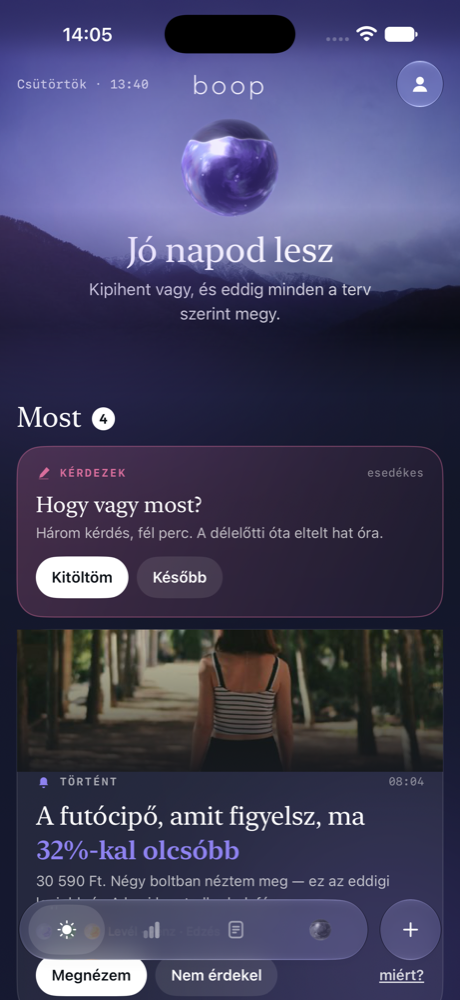
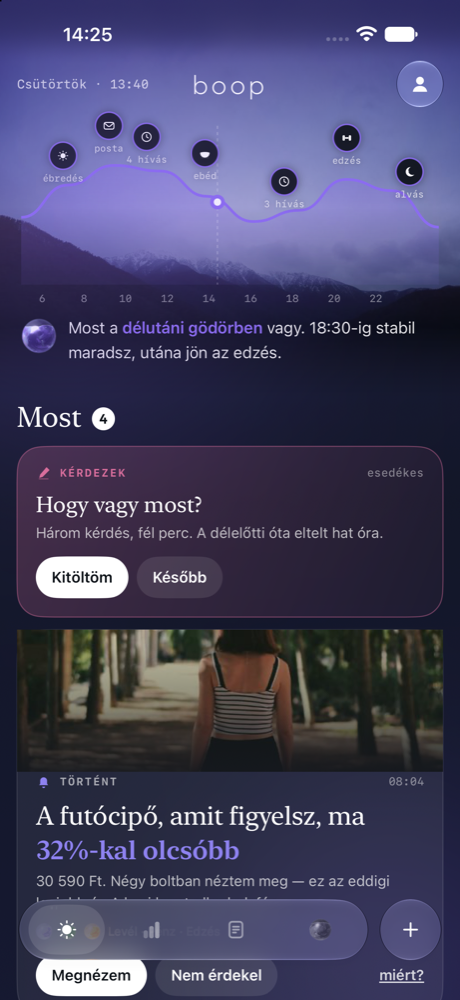
docs(boop-life): the day's curve is the hero; Nap becomes the seventh area (mezo-r36n9.33)
Owner rejected the lone orb + sentence hero as well. Three of his asks resolve into one move:

- The hero of Ma is the SHAPE OF THE DAY — EDayCurve: the energy curve with the big moments
  pinned on it and the now marker, one sentence under it, the orb shrunk to a 34 pt speaker mark.
  Labels stagger and drop where pins crowd.
- 'A napod' stops being a folded row and becomes the SEVENTH AREA with its own page — the same
  thing as the day-capacity idea, so one page not two: how full the day is from the calendar,
  each event with its AI-scored load and how prepared he is, the energy curve with the
  'below this it is hard to start anything' line, the full agenda, the week's load.
- This is B7 Napi kapacitás given a home and a face; the scoring stays labelled as learning
  until weeks of check-in data calibrate it.

Area index 6 is Nap; Levél moves to 7, every reference reindexed.

Decision #14. The Notion push is still pending from the connector outage (mezo-r36n9.46).

diff --git a/docs/design_2.0/prototypes/boop-ios-spike/BoopSpike/EletMa.swift b/docs/design_2.0/prototypes/boop-ios-spike/BoopSpike/EletMa.swift
@@ -47,7 +47,7 @@ struct EArea: Identifiable {
     var m: EMetric { EMetric.all[id] }
 
     static let all: [EArea] = [
-        EArea(id: 6, verdict: "Két levél megér egy percet", big: "34", unit: "levél", cap: "31-et elintéztem helyetted",
+        EArea(id: 7, verdict: "Két levél megér egy percet", big: "34", unit: "levél", cap: "31-et elintéztem helyetted",
               bars: [0.4, 0.7, 0.5, 0.9, 0.6, 0.3, 0.8], loud: true),
         EArea(id: 5, verdict: "A kereten belül vagy, de az éttermek elfogytak", big: "281 600", unit: "Ft", cap: "a havi 610 000-ből, a 13. napon",
               bars: [0.32, 0.58, 0.21, 0.9, 0.44, 0.76, 0.18], loud: true),
@@ -75,7 +75,7 @@ struct EProposal {
         accepted: "Felvettem a tervezett kiadások közé",
         facts: [("30 590", "Ft", "a mai ár a reggeli levélben"), ("38 400", "Ft", "a szokásos ára, 4 bolt alapján"), ("54 000", "Ft", "ami a hónapból még szabadon van")],
         areas: [(5, "A havi keretedbe belefér, és nincs mellette másik nagy tétel a héten."),
-                (6, "A márka leveleit eddig 11-szer dobtam ki — ez az első, amelyik tényleg olcsóbb."),
+                (7, "A márka leveleit eddig 11-szer dobtam ki — ez az első, amelyik tényleg olcsóbb."),
                 (2, "A mostani cipőd 780 kilométernél jár, a futóidőid három hete lassulnak."),
                 (0, "A nyári célodhoz heti három futás kell. Ehhez a cipő nem luxus, hanem feltétel.")])
 
@@ -187,14 +187,20 @@ struct EletMa: View {
                 }
                 .padding(.horizontal, 16).padding(.top, 58)
 
-                LivingOrb(mood: .good, size: 96, motion: motion, palette: day.orb, glow: true, level: 0.78)
-                    .padding(.top, 10)
-                    .onTapGesture { path.append("m0") }
+                EDayCurve(values: EDay.curve, labels: EDay.hours, events: EDay.events,
+                          hue: day.glow, now: 0.47, height: 182)
+                    .padding(.horizontal, 20).padding(.top, 10)
+                    .onTapGesture { path.append("m6") }
 
-                Text("Jó napod lesz").font(AuraFont.serif(34)).foregroundStyle(.white).padding(.top, 10)
-                Text("Kipihent vagy, és eddig minden a terv szerint megy.")
-                    .font(.system(size: 16)).lineSpacing(4).multilineTextAlignment(.center)
-                    .foregroundStyle(.white.opacity(0.82)).padding(.horizontal, 36).padding(.top, 8)
+                HStack(alignment: .top, spacing: 11) {
+                    LivingOrb(mood: .good, size: 34, motion: motion, palette: day.orb, glow: false, level: 0.78)
+                        .allowsHitTesting(false)
+                    EHueText(text: "Most a *délutáni gödörben* vagy. 18:30-ig stabil maradsz, utána jön az edzés.",
+                             hue: day.glow, size: 15.5, opacity: 0.9)
+                    Spacer(minLength: 0)
+                }
+                .padding(.horizontal, 20).padding(.top, 10)
+
                 Spacer(minLength: 0)
             }
             .frame(height: height)
@@ -296,8 +302,24 @@ struct EletMa: View {
             }
             EFoldRow(title: "A reggeli összefoglaló", sub: "08:10 · Boop mondta", glyph: "sun-ink",
                      hue: day.glow, open: $briefOpen) { briefing }
-            EFoldRow(title: "A napod", sub: "4 megvolt · 3 hátra · edzés 18:30", glyph: "clock-ink",
-                     hue: day.glow, open: $dayOpen) { dayScroll.padding(.top, 4) }
+            Button { path.append("m6") } label: {
+                HStack(spacing: 13) {
+                    EGlyph("clock-ink", .white.opacity(0.9), size: 17).frame(width: 36, height: 36)
+                        .background(Circle().fill(.white.opacity(0.08)))
+                    VStack(alignment: .leading, spacing: 2) {
+                        Text("A napod").font(.system(size: 15.5, weight: .medium)).foregroundStyle(.white)
+                        Text("6 esemény · 72%-ban tele · edzés 18:30").font(.system(size: 12.5))
+                            .foregroundStyle(.white.opacity(0.55))
+                    }
+                    Spacer()
+                    Image(systemName: "chevron.right").font(.system(size: 12, weight: .semibold))
+                        .foregroundStyle(.white.opacity(0.45))
+                }
+                .padding(.horizontal, 16).padding(.vertical, 13)
+                .contentShape(Rectangle())
+            }
+            .buttonStyle(.plain)
+            .gCard(22)
         }
     }
 
@@ -381,7 +403,7 @@ struct EletMa: View {
             FlowRow(spacing: 8, rowSpacing: 8) {
                 EChip(glyph: "moon-cream", text: "Alvás 7ó 12p", orb: EMetric.all[1].orb)
                 EChip(glyph: "e-penz", text: "281 600 Ft", orb: EMetric.all[5].orb)
-                EChip(glyph: "e-level", text: "2 érdekes levél", orb: EMetric.all[6].orb)
+                EChip(glyph: "e-level", text: "2 érdekes levél", orb: EMetric.all[7].orb)
                 EChip(glyph: "clock-ink", text: "6 esemény")
                 EChip(glyph: "dumbbell-ink", text: "Edzés 18:30", orb: EMetric.all[2].orb)
                 EChip(glyph: "bowl-cream", text: "165 g fehérje", orb: EMetric.all[3].orb)
@@ -519,7 +541,7 @@ struct EletMa: View {
     private func tap(_ it: EItem) {
         switch it.kind {
         case .money: path.append("m5")
-        case .mail: path.append("m6")
+        case .mail: path.append("m7")
         case .meal: path.append("m3")
         case .train: path.append("m2")
         case .wake, .sleep: path.append("m1")
@@ -538,7 +560,7 @@ struct EMaNotice {
     static let all: [EMaNotice] = [
         EMaNotice(areas: [5, 3], text: "Az étteremre költés a héten *24 000 Ft* — ez a harmadik hét, hogy csütörtökön ugrik meg."),
         EMaNotice(areas: [1, 3], text: "A késői vacsorák után átlagosan *24 perccel* kevesebbet alszol. Ma 19:45-re terveztem."),
-        EMaNotice(areas: [6], text: "Három hét alatt 612 levélből *36-ot* nyitottál meg — a többit ezentúl csendben szűröm."),
+        EMaNotice(areas: [7], text: "Három hét alatt 612 levélből *36-ot* nyitottál meg — a többit ezentúl csendben szűröm."),
     ]
 }
 
@@ -668,4 +690,20 @@ struct EWhySheet: View {
         .background(gPageBackground(EMetric.all[0].top).ignoresSafeArea())
         .ignoresSafeArea(edges: .top)
     }
+}
+
+
+/// The shape of today and its big moments — the hero of Ma and the head of the Nap area.
+enum EDay {
+    static let curve: [Double] = [0.45, 0.68, 0.82, 0.78, 0.6, 0.42, 0.5, 0.72, 0.64, 0.38]
+    static let hours = ["6", "8", "10", "12", "14", "16", "18", "20", "22", ""]
+    static let events: [EDayEvent] = [
+        EDayEvent(at: 0.10, glyph: "sun-ink", label: "ébredés"),
+        EDayEvent(at: 0.21, glyph: "e-level", label: "posta"),
+        EDayEvent(at: 0.30, glyph: "clock-ink", label: "4 hívás"),
+        EDayEvent(at: 0.44, glyph: "bowl-cream", label: "ebéd"),
+        EDayEvent(at: 0.63, glyph: "clock-ink", label: "3 hívás"),
+        EDayEvent(at: 0.78, glyph: "dumbbell-ink", label: "edzés"),
+        EDayEvent(at: 0.93, glyph: "moon-cream", label: "alvás"),
+    ]
 }

diff --git a/docs/design_2.0/prototypes/boop-ios-spike/BoopSpike/EletContent.swift b/docs/design_2.0/prototypes/boop-ios-spike/BoopSpike/EletContent.swift
@@ -8,7 +8,8 @@ enum EAreaContent {
     static func tabs(_ metric: Int) -> [ETab] {
         switch metric {
         case 5: return penz
-        case 6: return level
+        case 6: return nap
+        case 7: return level
         case 1: return alvas
         case 2: return edzes
         case 3: return etel
@@ -93,6 +94,63 @@ enum EAreaContent {
                 more: "Tétel hozzáadása"),
             .note(label: "HA MEGVESZED A CIPŐT", body: "5 400 Ft marad a hónapból. Ha a hétvégi éttermet kihagyod, az 12 000 Ft, és akkor kényelmes."),
             .ask("Kérdezd meg Boopot, belefér-e"),
+        ]),
+    ]
+
+
+    // ───────────────────────────────────────────── Nap · a nap telítettsége (B7 given a home)
+    static let nap: [ETab] = [
+        ETab(name: "Ma", badge: 1, blocks: [
+            .highlight(label: "AMI MA SZÁMÍT", text: "14 és 17:30 között nincs levegő",
+                       sub: "Három hívás egymás után, köztük tíz perc. Utána viszont tiéd a nap — ezért tettem az edzést 18:30-ra."),
+            .stats([EStat(value: "6", unit: "esemény", label: "ma a naptáradban"),
+                    EStat(value: "72", unit: "%", label: "ennyire van tele a napod", trend: 1, hot: true),
+                    EStat(value: "2ó 10p", unit: "", label: "összefüggő szabad idő")]),
+            .curve(label: "MENNYI ENERGIÁD MARAD", values: [0.45, 0.68, 0.82, 0.78, 0.6, 0.42, 0.5, 0.72, 0.64, 0.38],
+                   labels: ["6", "8", "10", "12", "14", "16", "18", "20", "22", ""], target: 0.5, now: 4,
+                   note: "A szaggatott vonal az, ami alatt már nehéz bármit elkezdeni. Ma kétszer mész alá: 15 körül és este tíz után."),
+            .rowlist(label: "A MAI ESEMÉNYEK", rows: [
+                ERow(glyph: "clock-ink", title: "Heti tervezés", sub: "09:00 · 60 perc · felkészülve", right: "köze pes", rightSub: "terhelés", level: 0.5),
+                ERow(glyph: "person-sage", title: "Ügyfélhívás · Nagy Péter", sub: "10:30 · 90 perc · nincs jegyzeted hozzá", right: "nehéz", rightSub: "terhelés", level: 0.88, badge: 1, hot: true),
+                ERow(glyph: "clock-ink", title: "Csapatmegbeszélés", sub: "14:00 · 45 perc · felkészülve", right: "könnyű", rightSub: "terhelés", level: 0.3),
+                ERow(glyph: "person-sage", title: "Ügyfélhívás · csúszhat", sub: "16:00 · 90 perc · ez szokott elhúzódni", right: "nehéz", rightSub: "terhelés", level: 0.82),
+                ERow(glyph: "dumbbell-ink", title: "Felsőtest edzés", sub: "18:30 · 75 perc · te tetted ide", right: "közepes", rightSub: "terhelés", level: 0.55)],
+                more: "A hét naptára"),
+            .note(label: "HOGYAN PONTOZOM", body: "Minden eseményre megbecsülöm, mennyi fejmunkát, mennyi társas energiát és mennyi fizikai terhelést visz, és hogy mennyire vagy rá felkészülve. Ezt összevetem azzal, mennyi energiád van ma — az alvásodból, a pulzusváltozékonyságodból és az elmúlt napok terheléséből. A becslés az első hetekben tanul: amíg nincs elég check-ined, a számok tájékoztató jellegűek, és ezt ki is írom."),
+            .menu(label: "A NAP TERÜLET", items: [
+                EMenuItem(glyph: "clock-ink", name: "Napirend", sub: "A mai nap percről percre"),
+                EMenuItem(glyph: "repeat-deep", name: "Naptárak", sub: "Melyik naptárt olvassa"),
+                EMenuItem(glyph: "chart-deep", name: "Pontozás", sub: "Mi számít nehéz napnak", badge: 1),
+                EMenuItem(glyph: "pen-sun", name: "Felkészülés", sub: "Amihez jegyzet vagy idő kell"),
+                EMenuItem(glyph: "spark-cream", name: "Mire marad erőd", sub: "Mit bír még el a mai napod"),
+                EMenuItem(glyph: "book-sage", name: "Előzmények", sub: "Hetek, zsúfoltság, kimerülés")]),
+            .ask("Kérdezd meg Boopot a mai napodról"),
+        ]),
+        ETab(name: "Napirend", blocks: [
+            .list(label: "A NAPOD, SORBAN", items: [
+                ("06:53 · Ébredés", "7ó 12p alvás, ebből 1ó 36p mély"),
+                ("07:20 · Reggeli check-in", "Energia 7 · hangulat 8 · feszültség 4"),
+                ("08:00 · A reggeli posta", "34 levél · 31 elintézve · 2 megér egy percet"),
+                ("08:20 · Reggeli", "Zabkása áfonyával · 32 g fehérje"),
+                ("09:00 · Megbeszélések · 4 esemény", "9:00–12:00 · legsűrűbb 10:30-kor"),
+                ("12:06 · Spar · 8 240 Ft", "A banki üzenetből, magától"),
+                ("12:40 · Ebéd", "Csirke rizzsel, salátával · 46 g fehérje"),
+                ("14:00 · Megbeszélések · 3 esemény", "14:00–17:30 · az ügyfélhívás csúszhat"),
+                ("16:00 · Délutáni check-in", "3 kérdés · fél perc"),
+                ("18:30 · Felsőtest edzés", "75 perc · 5 gyakorlat"),
+                ("19:45 · Vacsora", "Boop: legalább 50 g fehérje"),
+                ("21:30 · Esti zárás", "Kevesebb mint egy perc"),
+                ("22:45 · Lefekvés", "Emlékeztetlek 22:15-kor")]),
+            .ask("Kérdezd meg Boopot, hogy fér-e bele még valami"),
+        ]),
+        ETab(name: "Hét", blocks: [
+            .heat(label: "MENNYIRE TELÍTETTEK A NAPJAID", cells: [("H", 0.55), ("K", 0.7), ("Sze", 0.95), ("Cs", 0.72), ("P", 0.6), ("Szo", 0.15), ("V", 0.1)],
+                  note: "Szerda volt a legzsúfoltabb — és aznap aludtál a legkevesebbet. Ez a kettő nálad együtt jár."),
+            .list(label: "AMIT ÉSZREVETTEM", items: [
+                ("A zsúfolt nap másnapja is drága", "A 90% fölötti napok után a Formád átlagosan 9 ponttal alacsonyabb."),
+                ("A hosszú hívások csúsznak", "Az ügyfélhívásaid 60%-a túllép a tervezett időn, átlagosan 18 perccel."),
+                ("A szabad délután ritka", "Két hét alatt egyszer volt két óránál hosszabb összefüggő szabad időd.")]),
+            .ask("Kérdezd meg Boopot a heti terhelésedről"),
         ]),
     ]
 

diff --git a/docs/design_2.0/prototypes/boop-ios-spike/BoopSpike/EletKit.swift b/docs/design_2.0/prototypes/boop-ios-spike/BoopSpike/EletKit.swift
@@ -359,3 +359,103 @@ struct EChip: View {
         .overlay(Capsule().stroke(.white.opacity(0.14)))
     }
 }
+
+
+// MARK: - The day's curve with the major events pinned on it (owner, 2026-11-13)
+
+struct EDayEvent: Identifiable {
+    let id = UUID()
+    let at: Double          // 0…1 across the curve
+    let glyph: String
+    let label: String
+}
+
+/// The hero of Ma: the shape of the day with its big moments on it, and where you are right now.
+struct EDayCurve: View {
+    var values: [Double]
+    var labels: [String]
+    var events: [EDayEvent]
+    var hue: Color
+    var now: Double         // 0…1
+    var height: CGFloat = 170
+
+    var body: some View {
+        GeometryReader { g in
+            let w = g.size.width, h = height
+            ZStack(alignment: .topLeading) {
+                Canvas { ctx, s in
+                    guard values.count > 1 else { return }
+                    let peak = max(0.0001, values.max() ?? 1)
+                    let k = 0.86 / peak
+                    func y(_ v: Double) -> CGFloat { s.height - 26 - (s.height - 54) * CGFloat(min(1, v * k)) }
+                    func pt(_ i: Int) -> CGPoint {
+                        CGPoint(x: s.width * CGFloat(i) / CGFloat(values.count - 1), y: y(values[i]))
+                    }
+                    var line = Path(); line.move(to: pt(0))
+                    for i in 1..<values.count {
+                        let a = pt(i - 1), b = pt(i), mx = (a.x + b.x) / 2
+                        line.addCurve(to: b, control1: CGPoint(x: mx, y: a.y), control2: CGPoint(x: mx, y: b.y))
+                    }
+                    var fill = line
+                    fill.addLine(to: CGPoint(x: s.width, y: s.height - 22))
+                    fill.addLine(to: CGPoint(x: 0, y: s.height - 22)); fill.closeSubpath()
+                    ctx.fill(fill, with: .linearGradient(Gradient(colors: [hue.opacity(0.42), hue.opacity(0.02)]),
+                                                        startPoint: .zero, endPoint: CGPoint(x: 0, y: s.height)))
+                    ctx.stroke(line, with: .color(hue), style: StrokeStyle(lineWidth: 2.6, lineCap: .round, lineJoin: .round))
+
+                    // now
+                    let nx = s.width * CGFloat(now)
+                    var v = Path(); v.move(to: CGPoint(x: nx, y: 8)); v.addLine(to: CGPoint(x: nx, y: s.height - 22))
+                    ctx.stroke(v, with: .color(.white.opacity(0.3)), style: StrokeStyle(lineWidth: 1, dash: [3, 3]))
+                    let ny = y(sample(now))
+                    ctx.fill(Path(ellipseIn: CGRect(x: nx - 7, y: ny - 7, width: 14, height: 14)), with: .color(hue))
+                    ctx.fill(Path(ellipseIn: CGRect(x: nx - 3.5, y: ny - 3.5, width: 7, height: 7)), with: .color(.white))
+                }
+                .frame(height: h)
+
+                // the big moments, as small pins sitting on the curve.
+                // A label only where there is room for it — crowded pins keep the glyph alone.
+                ForEach(Array(events.enumerated()), id: \.element.id) { i, e in
+                    let room = i == 0 || (e.at - events[i - 1].at) > 0.085
+                    let lift: CGFloat = (i % 2 == 0) ? 0 : 9
+                    let peak = max(0.0001, values.max() ?? 1)
+                    let yy = h - 26 - (h - 54) * CGFloat(min(1, sample(e.at) * 0.86 / peak))
+                    VStack(spacing: 3) {
+                        ZStack {
+                            Circle().fill(gBase.opacity(0.92))
+                            Circle().stroke(hue.opacity(0.9), lineWidth: 1.4)
+                            EGlyph(e.glyph, .white, size: 12)
+                        }
+                        .frame(width: 26, height: 26)
+                        .shadow(color: .black.opacity(0.35), radius: 4)
+                        if room {
+                            Text(e.label).font(AuraFont.mono(9)).foregroundStyle(.white.opacity(0.7))
+                                .fixedSize()
+                                .shadow(color: .black.opacity(0.5), radius: 3)
+                        }
+                    }
+                    .position(x: max(22, min(w - 22, w * CGFloat(e.at))), y: yy - 24 - lift)
+                }
+
+                HStack(spacing: 0) {
+                    ForEach(labels.indices, id: \.self) { i in
+                        Text(labels[i]).font(AuraFont.mono(10)).foregroundStyle(.white.opacity(0.45))
+                            .frame(maxWidth: .infinity)
+                    }
+                }
+                .offset(y: h - 16)
+            }
+        }
+        .frame(height: height)
+        .accessibilityHidden(true)
+    }
+
+    /// value at a 0…1 position, linearly between samples
+    private func sample(_ x: Double) -> Double {
+        guard values.count > 1 else { return values.first ?? 0 }
+        let t = x * Double(values.count - 1)
+        let i = min(values.count - 2, max(0, Int(t)))
+        let f = t - Double(i)
+        return values[i] * (1 - f) + values[i + 1] * f
+    }
+}

diff --git a/docs/design_2.0/prototypes/boop-ios-spike/BoopSpike/EletBoop.swift b/docs/design_2.0/prototypes/boop-ios-spike/BoopSpike/EletBoop.swift
@@ -14,7 +14,7 @@ struct EThread: Identifiable {
 
     static let all: [EThread] = [
         EThread(id: "cipo", title: "Megvegyem a futócipőt?", last: "Igen, de a hétvégi étterem helyett.", when: "most",
-                areas: [5, 6, 2, 0], pinned: false,
+                areas: [5, 7, 2, 0], pinned: false,
                 turns: [
                     (false, "Ezt a cipőt érdemes megvenni?"),
                     (true, "Szerintem igen. 30 590 Ft, és négy boltban néztem meg: a szokásos ára 38 400, a legolcsóbb másik 36 900. Ez tényleg a legjobb ár, amit eddig láttam rá."),
@@ -207,7 +207,8 @@ struct EletTerv: View {
         (1, "7,5 óra alvás", "a heti átlagod 7 óra 4 perc", 0.82, "Kipihented magad · 7ó 12p"),
         (5, "Havi 60 000 Ft félretéve", "ebből 38 000 Ft megvan", 0.63, "A kereten belül vagy · 281 600 Ft"),
         (4, "Heti két nyugodt nap", "ezen a héten egy volt", 0.5, "Kicsit feszült vagy · 4/10"),
-        (6, "Csak az számít, ami a célhoz tartozik", "ma 2 levél ilyen volt a 34-ből", 0.9, "Két dolgot nézz meg · 34 levél"),
+        (6, "A naptárad hagyjon helyet", "ma 72%-ban tele", 0.72, "Zsúfolt délután · 6 esemény"),
+        (7, "Csak az számít, ami a célhoz tartozik", "ma 2 levél ilyen volt a 34-ből", 0.9, "Két dolgot nézz meg · 34 levél"),
     ]
 
     var body: some View {
@@ -327,7 +328,7 @@ struct EletNaplo: View {
          [4, 1],
          "A hat eseménynél zsúfoltabb napok után a mély alvásod átlagosan 18 perccel rövidebb. Ezeken a napokon érdemes 22:30 előtt lefeküdni."),
         ("A reklámlevelek 94%-a nem érdekel",
-         [6, 5],
+         [7, 5],
          "Három hét alatt 612 levélből 36-ot nyitottál meg. A megnyitottak háromnegyede két márkától jött — a többit ezentúl csendben szűröm."),
     ]
 

diff --git a/docs/design_2.0/prototypes/boop-ios-spike/BoopSpike/EletRoot.swift b/docs/design_2.0/prototypes/boop-ios-spike/BoopSpike/EletRoot.swift
@@ -70,6 +70,13 @@ struct EMetric {
                 headline: "A kereten belül vagy",
                 sentence: "A hónapból 13 nap telt el, a havi keret 46%-át költötted el. Két nagyobb tétel jön még.",
                 isNew: true),
+        EMetric(name: "Nap", value: 64, glyph: "clock-ink",
+                top: Color(hex: 0x0E3542), glow: Color(hex: 0x4FC3D9),
+                orb: [Color(hex: 0x0A2C38), Color(hex: 0x1F7A8C), Color(hex: 0x8FD9E8), Color(hex: 0xC9F0E2)],
+                sky: [Color(hex: 0x10384A), Color(hex: 0x3C8FA8), Color(hex: 0xCFE8E4)],
+                headline: "Zsúfolt délutánod lesz",
+                sentence: "Hat esemény, a naptárad 72%-ban tele. 14 és 17:30 között nincs levegő — utána viszont tiéd a nap.",
+                isNew: true),
         EMetric(name: "Levél", value: 58, glyph: "e-level",
                 top: Color(hex: 0x241F55), glow: Color(hex: 0x8E82F0),
                 orb: [Color(hex: 0x1E1A4A), Color(hex: 0x5B4BC4), Color(hex: 0xB3A8F5), Color(hex: 0x7FD8E8)],
@@ -131,7 +138,7 @@ struct EletRoot: View {
     @State private var maPath: [String] = {
         switch EArg.str("eletOpen") {
         case "penz": return ["m5"]
-        case "level": return ["m6"]
+        case "level": return ["m7"]
         case let s? where s.hasPrefix("m"): return [s]
         default: return []
         }

diff --git a/docs/design_2.0/prototypes/boop-ios-spike/BoopSpike/EletFeed.swift b/docs/design_2.0/prototypes/boop-ios-spike/BoopSpike/EletFeed.swift
@@ -61,7 +61,7 @@ struct EFeedCard: Identifiable {
         EFeedCard(id: "cipo", kind: .tortent, when: "08:04",
                   text: "A futócipő, amit figyelsz, ma *32%-kal olcsóbb*",
                   sub: "30 590 Ft. Négy boltban néztem meg — ez az eddigi legjobb ár. A havi keretedbe belefér.",
-                  areas: [6, 5, 2], primary: "Megnézem", secondary: "Nem érdekel",
+                  areas: [7, 5, 2], primary: "Megnézem", secondary: "Nem érdekel",
                   settled: "Futócipő · megnézted",
                   photo: "nap-seta-sq.jpg", photoSq: "nap-seta-sq.jpg", big: "30 590", bigUnit: "Ft"),
         EFeedCard(id: "ebed", kind: .reakcio, when: "12:48",

diff --git a/docs/design_2.0/prototypes/boop-ios-spike/BoopSpike/EletRooms.swift b/docs/design_2.0/prototypes/boop-ios-spike/BoopSpike/EletRooms.swift
@@ -38,7 +38,7 @@ struct EletAreaPage: View {
     @Environment(\.dismiss) private var dismiss
     @State private var tab = 0
 
-    private var m: EMetric { EMetric.all[min(metric, 6)] }
+    private var m: EMetric { EMetric.all[min(metric, 7)] }
     private var tabs: [ETab] { EAreaContent.tabs(metric) }
 
     var body: some View {
@@ -78,7 +78,7 @@ struct EletAreaPage: View {
 
     private var head: some View {
         Group {
-            if EWarm.on { EPhotoHead(metric: min(metric, 6), height: 330) }
+            if EWarm.on { EPhotoHead(metric: min(metric, 7), height: 330) }
             else { GHead(sky: m.sky, height: 300) }
         }
             .overlay(alignment: .bottomLeading) {

diff --git a/docs/design_2.0/prototypes/boop-ios-spike/BoopSpike/EletWarm.swift b/docs/design_2.0/prototypes/boop-ios-spike/BoopSpike/EletWarm.swift
@@ -26,7 +26,7 @@ enum EWarm {
         case 1: return "aura-alkony.jpg"    // Alvás · dusk over water
         case 3: return "konyha.jpg"         // Étel  · vegetables on a board (stands in for the decided deszka.jpg)
         case 5: return "aura-hegy.jpg"      // Pénz  · borrowed from Forma until it has its own
-        default: return nil                 // Edzés, Energia, Levél · painted landscape until a photo exists
+        default: return nil                // Edzés, Energia, Nap, Levél · painted landscape until a photo exists
         }
     }
 }

diff --git a/docs/superpowers/research/boop-standalone/14-decisions.md b/docs/superpowers/research/boop-standalone/14-decisions.md
@@ -17,3 +17,4 @@ Issue `mezo-r36n9.9`. Each decision was put to the owner in the CLAUDE.md §Comm
 | 11 | 2026-11-13 | How you reach the domain areas (Étel, Edzés, Pénz, Alvás…) once the orb strip is gone | **Terv is the home of the areas** | Rejected: a fifth bottom-bar button (brings back the clutter just removed) and scroll-only (every visit to an area means scrolling the whole day). Terv now holds the life goal plus one card per area, each showing today's verdict *and* what the area contributes to the goal; the card opens that area's own page. The bar keeps four items and reads: Ma = now · Terv = my goal and my areas · Napló = what happened · Boop = I ask. Fast paths stay: a row in the day, the loud cards at the bottom of Ma, and `+` to record. Areas renamed to the spine vocabulary: Fuel → Étel, Mozgás → Edzés, Közérzet → Energia. Spike `-elet YES`, screenshots `elet-11`, `elet-12`. |
 | 12 | 2026-11-13 | "Hideg és dobozolós" — should the area pages borrow from the old Lágy look? | **The warm variant** | He compared the shipped-era Lágy screen with the Élet spike. Diagnosis: of the four things that made Lágy feel warmer, **two were free to borrow** — a real photo in the head (already decision #10, Képek variant A) and **colour inside the content**, not only in the sky and the orbs — and the boxiness was the prototype's own fault (six to eight identical rounded rectangles stacked). The other two (light paper, coloured illustrated icons) he had already rejected on 2026-11-10 and in the icon round, and stay out. So: photo heads where a compliant photo exists (painted landscape as the fallback, as Képek §3.3 allows), the area's hue on key numbers and marked spans inside the text, photo thumbnails on rows that are *things*, and the cards dropped from the stats / curve / composition / row-list blocks. A/B shot side by side (`elet-x1`, `elet-x2`) before the choice. Follow-up: four of the seven worlds have no mood photo yet (`mezo-r36n9.44`). |
 | 13 | 2026-11-13 | What is the Ma home screen? | **A living wall, not a timeline** | Two findings of his, in one: (a) *"ez a nagy szám nekem nem mond semmit — attól nem fogom jól érezni magam, hogy mit mond a szám"*, and (b) *"egész nap a reggeli üzenetet mutatjuk? … kontextuálisan, amikor megnyitom az appot, mutassa, mintha üzenne nekem"*. So Ma becomes **what Boop wants to say right now**: at most **three cards** (teendő · történt · készülj · reakció), the **check-in pinned above them while it is due**, a card you act on **settles into "Ma történt"** instead of vanishing, and when there is nothing it says so warmly — an empty wall is good news. The **big 0–100 score leaves the home**: the orb stays as the hero without a number, and the score keeps its meaning only inside an area, next to the data it came from. Below the wall: the **morning briefing** and the **day's timeline**, each folded into one row (open in the morning, closed later), then **the day's energy curve** (forward-looking, which a score is not) and the cross-area **observations**. The per-area levels leave the home entirely — Terv is their place. **This amends decision #1** ("Ma = the day as one timeline"): the timeline is not dropped, it becomes a folded section. Executable: `EletFeed.swift`, screenshots `elet-1`, `elet-2`, `elet-3`. |
+| 14 | 2026-11-13 | The Ma hero, and where the day lives | **The day's curve is the hero; "A nap" becomes the seventh area** | He rejected the lone orb + sentence too. Three of his asks resolve into one move: the hero of Ma is **the shape of the day** — the energy curve with the big moments pinned on it (wake · post · call block · lunch · call block · workout · sleep) and the "now" marker, with one sentence under it and the orb shrunk to a 34 pt speaker mark. "A napod" stops being a folded row and becomes a **seventh area with its own page** — which is the same thing as the day-capacity idea he asked for, so one page, not two: how full the day is from the calendar, each event with its AI-scored load and how prepared he is, the energy curve with the "below this it is hard to start anything" line, the full day's agenda, and the week's load. **This is B7 "Napi kapacitás" given a home and a face**; the scoring stays labelled as learning until weeks of check-in data calibrate it. Area index 6; Levél moves to 7. Screenshots `elet-1-ma.png`, `elet-4-nap.png`. |
